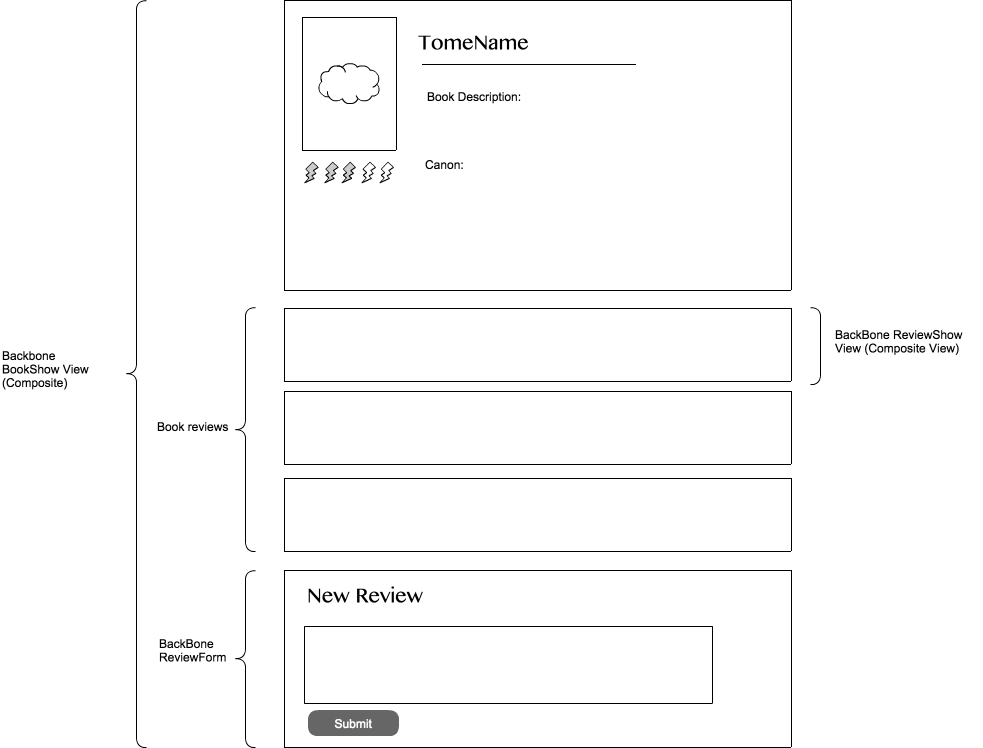
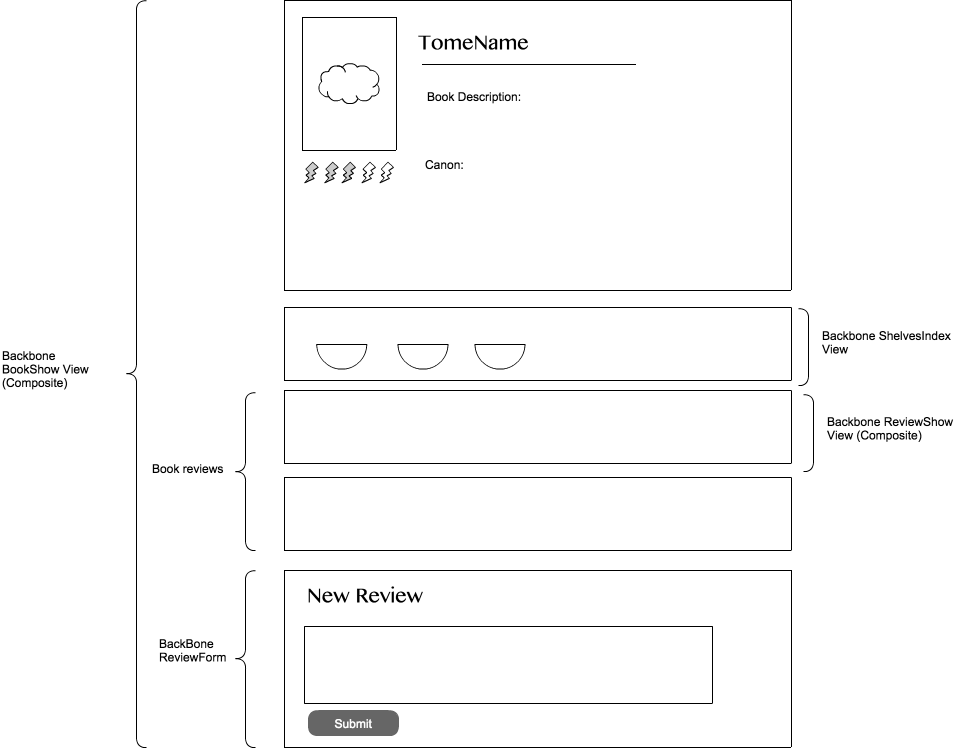
add shelves to wireframes

diff --git a/app/assets/stylesheets/sessions.scss b/app/assets/stylesheets/sessions.scss
@@ -1,0 +1,3 @@
+// Place all the styles related to the Sessions controller here.
+// They will automatically be included in application.css.
+// You can use Sass (SCSS) here: http://sass-lang.com/

diff --git a/app/assets/stylesheets/users.scss b/app/assets/stylesheets/users.scss
@@ -1,0 +1,3 @@
+// Place all the styles related to the Users controller here.
+// They will automatically be included in application.css.
+// You can use Sass (SCSS) here: http://sass-lang.com/

diff --git a/db/schema.rb b/db/schema.rb
@@ -1,0 +1,34 @@
+# encoding: UTF-8
+# This file is auto-generated from the current state of the database. Instead
+# of editing this file, please use the migrations feature of Active Record to
+# incrementally modify your database, and then regenerate this schema definition.
+#
+# Note that this schema.rb definition is the authoritative source for your
+# database schema. If you need to create the application database on another
+# system, you should be using db:schema:load, not running all the migrations
+# from scratch. The latter is a flawed and unsustainable approach (the more migrations
+# you'll amass, the slower it'll run and the greater likelihood for issues).
+#
+# It's strongly recommended that you check this file into your version control system.
+
+ActiveRecord::Schema.define(version: 20150811163704) do
+
+  # These are extensions that must be enabled in order to support this database
+  enable_extension "plpgsql"
+
+  create_table "users", force: :cascade do |t|
+    t.string   "username",        null: false
+    t.string   "email",           null: false
+    t.string   "image_url"
+    t.string   "canon"
+    t.text     "bio"
+    t.string   "password_digest", null: false
+    t.string   "session_token",   null: false
+    t.datetime "created_at",      null: false
+    t.datetime "updated_at",      null: false
+  end
+
+  add_index "users", ["email"], name: "index_users_on_email", using: :btree
+  add_index "users", ["username"], name: "index_users_on_username", using: :btree
+
+end

diff --git a/app/models/user.rb b/app/models/user.rb
@@ -1,0 +1,30 @@
+# == Schema Information
+#
+# Table name: users
+#
+#  id              :integer          not null, primary key
+#  username        :string           not null
+#  email           :string           not null
+#  image_url       :string
+#  canon           :string
+#  bio             :text
+#  password_digest :string           not null
+#  session_token   :string           not null
+#  created_at      :datetime         not null
+#  updated_at      :datetime         not null
+#
+
+class User < ActiveRecord::Base
+  before_validation :ensure_session_token
+  validates :username, :email, :password_digest, :session_token, presence: true
+  validates :username, :email, uniqueness: true
+  validates :password, length: { minimum: 6, allow_nil: true }
+  attr_reader :password
+
+  def self.find_by_credentials(username, password)
+    user = User.find_by(username: username)
+    user && user.is_password?(password) ? user : nil
+  end
+
+  
+end

diff --git a/db/migrate/20150811163704_create_users.rb b/db/migrate/20150811163704_create_users.rb
@@ -1,0 +1,16 @@
+class CreateUsers < ActiveRecord::Migration
+  def change
+    create_table :users do |t|
+      t.string :username, null: false, index: true, unique: true
+      t.string :email, null: false, index: true, unique: true
+      t.string :image_url
+      t.string :canon
+      t.text   :bio
+
+      t.string :password_digest, null: false
+      t.string :session_token, null: false
+
+      t.timestamps null: false
+    end
+  end
+end

diff --git a/app/controllers/users_controller.rb b/app/controllers/users_controller.rb
@@ -1,0 +1,3 @@
+class UsersController < ApplicationController
+  
+end

diff --git a/app/controllers/sessions_controller.rb b/app/controllers/sessions_controller.rb
@@ -1,0 +1,2 @@
+class SessionsController < ApplicationController
+end

diff --git a/app/helpers/sessions_helper.rb b/app/helpers/sessions_helper.rb
@@ -1,0 +1,2 @@
+module SessionsHelper
+end

diff --git a/app/helpers/users_helper.rb b/app/helpers/users_helper.rb
@@ -1,0 +1,2 @@
+module UsersHelper
+end
